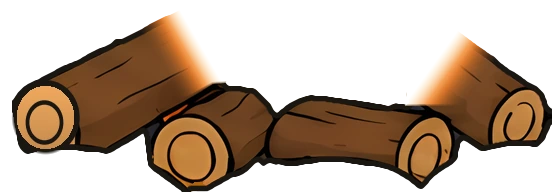
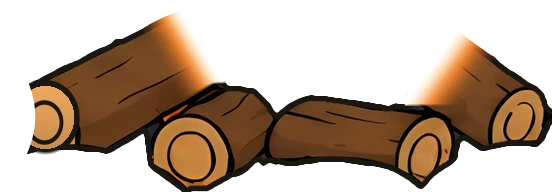
Logs tuck behind the rock; a dead fire pours thick white smoke
The far-left log end now goes behind the rock in front of it (the log is
cut along the rock's edge, the old painted log bits there are stone and
the rock gets its outline; the painting keeps its transparency). The logs
no longer change when the fire goes out: instead thick white smoke pours
off the pit, covering it the way the flames do, and climbs high into the
sky until the fire is relit.

Claude-Session: https://claude.ai/code/session_01LEzX9WUx8sWcSwwRyLeaEz

Changed region(s): [[0.0, 0.4375, 0.0924, 0.8125]]

diff --git a/web/src/components/scene.ts b/web/src/components/scene.ts
@@ -251,6 +251,13 @@ export function createScene(canvas: HTMLCanvasElement, onView?: (v: SceneView) =
   const sparks: { x: number; y: number; vx: number; vy: number; life: number; max: number }[] = [];
   const smoke: { x: number; y: number; r: number; life: number; max: number }[] = [];
   const flying: { t0: number; x0: number; big: boolean }[] = [];
+  const white: { x: number; y: number; r: number; life: number; max: number; ph: number }[] = [];
+  const puffs: Record<string, HTMLCanvasElement> = {};
+  function puff(rgb: string) { // one soft round puff, drawn once and reused
+    if (puffs[rgb]) return puffs[rgb]; const c = mk(128, 128), x = c.getContext("2d")!, g = x.createRadialGradient(64, 64, 0, 64, 64, 64);
+    g.addColorStop(0, `rgba(${rgb},1)`); g.addColorStop(0.55, `rgba(${rgb},0.85)`); g.addColorStop(1, `rgba(${rgb},0)`); x.fillStyle = g; x.fillRect(0, 0, 128, 128); return (puffs[rgb] = c);
+  }
+  let outK = 0, wacc = 0;
   let sacc = 0, smacc = 0, heat = 0, lastT = 0, firePhase = 0, seenBuy = -1;
   const flameTop = (fs: number) => PIT.y - (0.2 + 0.28 * fs + 0.75 * fs * fs * fs) * 479;
   const fireLight = (t: number) => 0.93 + 0.05 * vnoise(t * 0.9) + 0.025 * vnoise(t * 2.7 + 11) + 0.012 * vnoise(t * 6.1 + 23); // the light breathes
@@ -281,10 +288,9 @@ export function createScene(canvas: HTMLCanvasElement, onView?: (v: SceneView) =
     }
     heat += ((fs > 0.01 ? 0.35 + 0.65 * Math.min(1, fs) : 0) - heat) * Math.min(1, dt * (fs > 0.01 ? 2 : 0.12)); // logs keep glowing a while after it dies
     const img = assets["a-logs.webp"], litImg = assets["a-logs-lit.webp"];
-    if (img) { // built on their own canvas so the glow stays on the logs. While the fire burns, the ends that sit in the
-      // flames melt into them (a-logs-lit); once it's out they're whole logs again.
+    if (img) { // built on their own canvas so the glow stays on the logs; the ends that sit in the flames melt into them (a-logs-lit)
       lc ??= mk(img.width, img.height); lb ??= mk(img.width, img.height);
-      const B = lb.getContext("2d")!, L = lc.getContext("2d")!, lit = litImg ? Math.min(1, fs * 1.6) : 0;
+      const B = lb.getContext("2d")!, L = lc.getContext("2d")!, lit = litImg ? 1 : 0; // the logs never change; when the fire dies, smoke covers the pit
       B.globalAlpha = 1; B.globalCompositeOperation = "source-over"; B.clearRect(0, 0, lb.width, lb.height);
       if (lit > 0) B.drawImage(litImg, 0, 0);
       if (lit < 1) { B.globalAlpha = 1 - lit; B.drawImage(img, 0, 0); B.globalAlpha = 1; }
@@ -302,15 +308,28 @@ export function createScene(canvas: HTMLCanvasElement, onView?: (v: SceneView) =
       }
       ctx.drawImage(lc, LOGS_AT.x, LOGS_AT.y, aw(img), ah(img));
     }
-    // smoke from a big fire, lit warm from below at night; thin grey smoke when it's out
+    // smoke from a big fire, lit warm from below at night
     const top = flameTop(Math.max(fs, 0.2));
-    smacc += dt * (fs > 0.4 ? 3 + 9 * fs : fs <= 0.01 && heat > 0.05 ? 3 : 0);
+    smacc += dt * (fs > 0.4 ? 3 + 9 * fs : 0);
     while (smacc > 1) { smacc--; smoke.push({ x: PIT.x + (Math.random() - 0.5) * 60 * (0.5 + fs), y: fs > 0.01 ? top + 30 : PIT.y - 30, r: 14 + 20 * fs, life: 0, max: 5 + Math.random() * 3 }); }
     for (let i = smoke.length - 1; i >= 0; i--) {
       const m = smoke[i]; m.life += dt; if (m.life > m.max) { smoke.splice(i, 1); continue; }
       const u = m.life / m.max; m.y -= (40 + 30 * fs) * dt; m.x += (14 + 20 * u) * dt; m.r += (10 + 14 * fs) * dt;
       const c = mix([78, 76, 82], [170, 95, 55], Math.max(0, 1 - u * 3) * dk * Math.min(1, fs * 1.5));
       ctx.fillStyle = `rgba(${c[0]},${c[1]},${c[2]},${0.12 * Math.min(1, m.life * 0.7) * (1 - u)})`; ctx.beginPath(); ctx.arc(m.x, m.y, m.r, 0, 7); ctx.fill();
+    }
+    // a dead fire: thick white smoke pours off the pit (covering it, like the flames do) and climbs high into the sky
+    outK += ((fs <= 0.02 ? 1 : 0) - outK) * Math.min(1, dt * (fs <= 0.02 ? 2.5 : 0.8));
+    wacc += dt * 17 * outK;
+    while (wacc > 1) { wacc--; white.push({ x: PIT.x - 118 + Math.random() * 236, y: PIT.y - 12 - Math.random() * 40, r: 38 + Math.random() * 26, life: 0, max: 17 + Math.random() * 6, ph: Math.random() * 6 }); }
+    if (white.length) {
+      const sp = puff(dk > 0.5 ? "205,210,220" : "240,240,238");
+      for (let i = white.length - 1; i >= 0; i--) {
+        const m = white[i]; m.life += dt; if (m.life > m.max) { white.splice(i, 1); continue; }
+        const u = m.life / m.max; m.y -= (18 + 50 * Math.min(1, u * 4)) * dt; // it hangs thick over the pit, then climbs m.x += (6 + 22 * u + Math.sin(m.life * 0.9 + m.ph) * 8) * dt; m.r += (9 + 10 * u) * dt;
+        ctx.globalAlpha = 0.72 * Math.min(1, m.life * 2) * (1 - u) ** 1.2; ctx.drawImage(sp, m.x - m.r, m.y - m.r, m.r * 2, m.r * 2);
+      }
+      ctx.globalAlpha = 1;
     }
     if (fs > 0.01) sacc += dt * (2 + 8 * fs + 10 * fs * fs * fs);
     while (sacc > 1) { sacc--; sparks.push({ x: PIT.x + (Math.random() - 0.5) * (60 + 120 * fs), y: PIT.y - 40 - Math.random() * 80, vx: (Math.random() - 0.5) * 50, vy: -(90 + 150 * Math.min(1, fs)) * (0.5 + Math.random()), life: 0, max: 1 + Math.random() * 1.6 }); }
